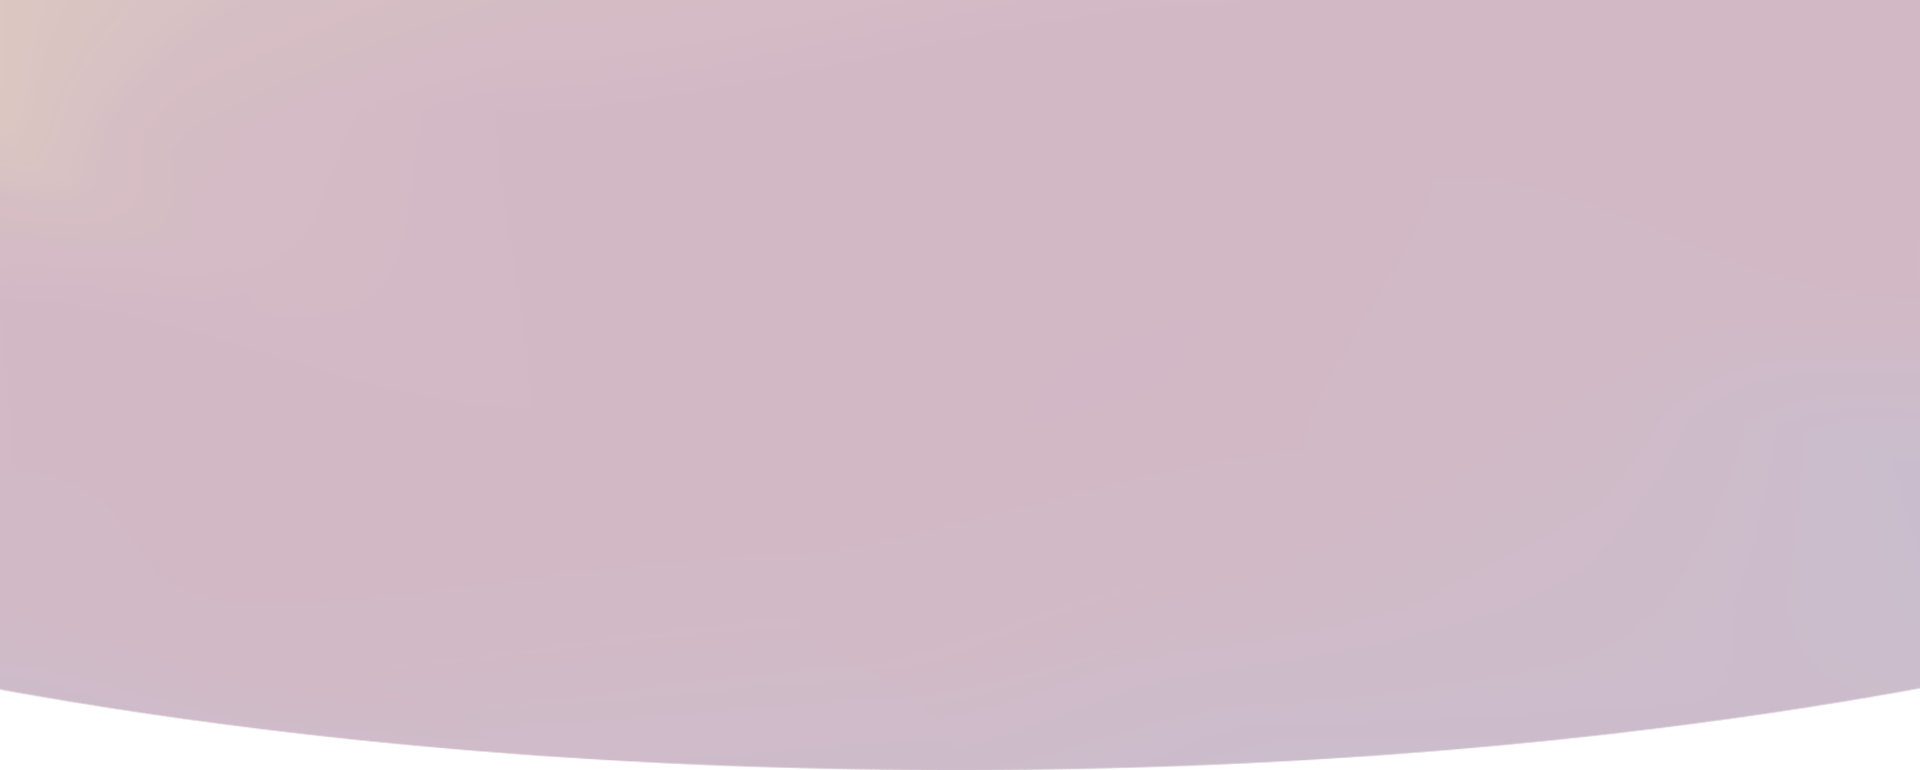
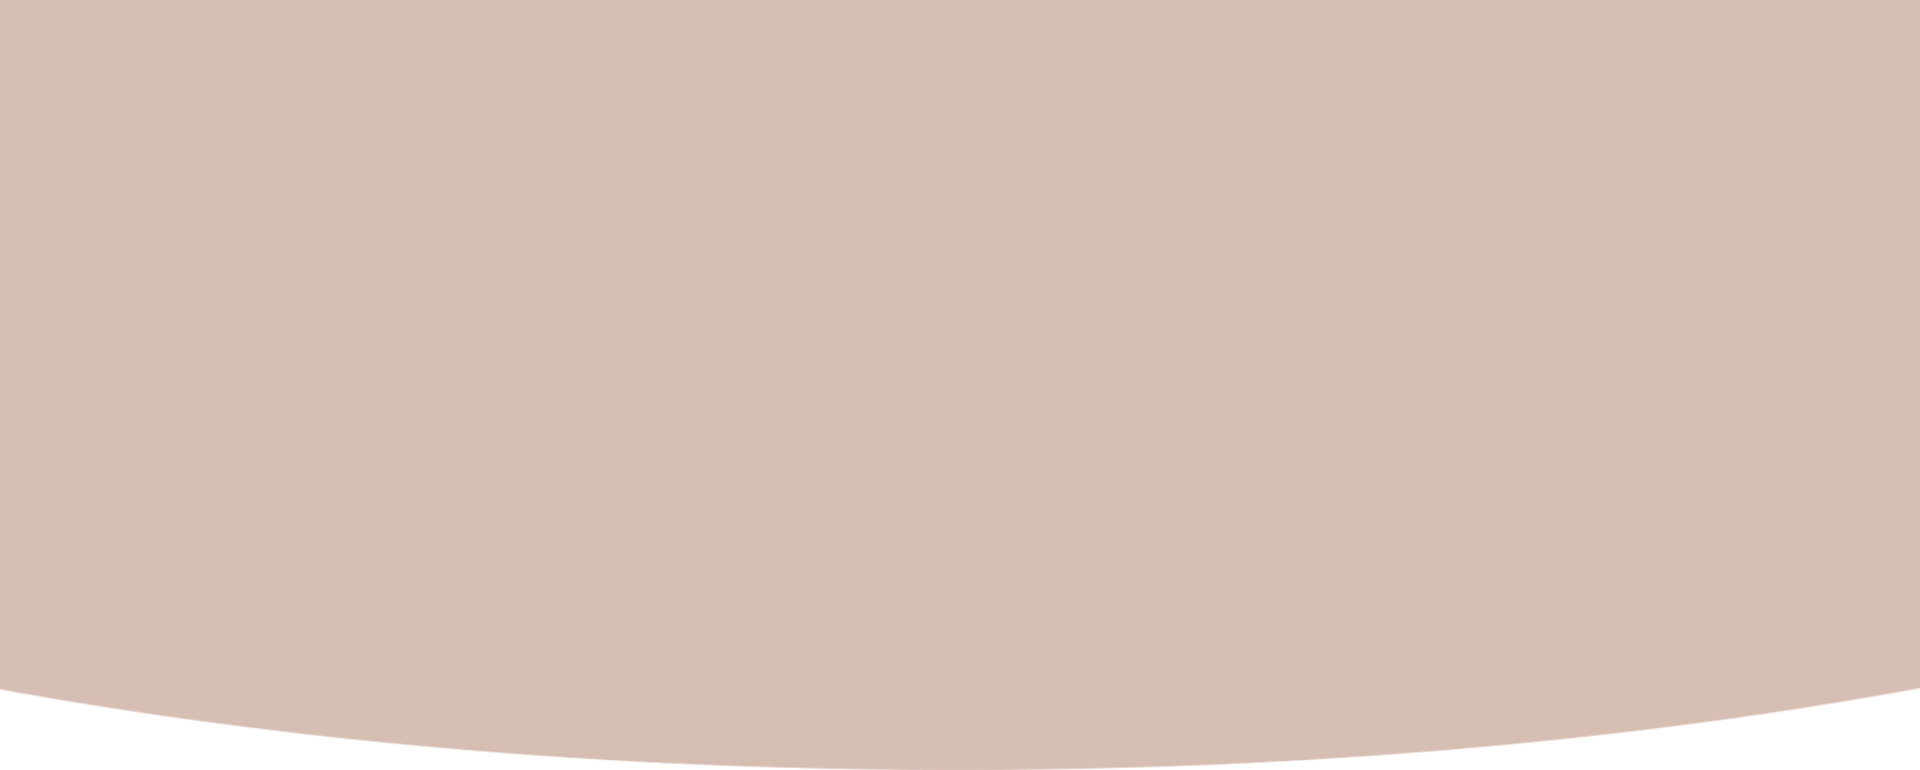
작업중

Changed region(s): [[0.9375, 0.561, 1.0, 0.8416]]

diff --git a/css/style.scss b/css/style.scss
@@ -110,7 +110,7 @@ $fullhd-min-width : 1920px;
       @include flex(center, center, column);
       & section:nth-child(1) {
         @include size(100vw, 85vh);
-        @include img(url(../images/test.png));
+        @include img(url(../images/bg.png));
         @include flex(center, center, row);
         position: relative;
         & > div:nth-child(1) {
@@ -149,11 +149,41 @@ $fullhd-min-width : 1920px;
         }
 
         & > div:nth-child(2) { //btn:참가하기
-          @include size(16vw, 10vh);
+          @include size(24vh, 8vh);
           border: 1px solid red;
           position: absolute;
           bottom: 20vh;
           right: 14vw;
+          @include flex(space-between, center, row);
+          & span {
+            color: $color-1;
+          }
+          & > div { //arrow
+            @include size(4vw, 4vw);
+            background-color: #C196C1;
+            border-radius: 50%;
+            position: relative;
+            & > div:nth-child(1) {
+              @include size(6vw, 1vw);
+              @include img(url(../images/icon/arrow.png));
+              position: absolute;
+              right: 2vw;
+              bottom: 2vw;
+            }
+          }
+
+          & > div::after {
+            content: '';
+            display: block;
+            @include size(4.8vw, 4.8vw);
+            border: 2px solid #C196C1;
+            box-sizing: border-box;
+            border-radius: 50%;
+            position: absolute;
+            top: 50%;
+            left: 50%;
+            transform: translate(-50%,-50%);
+          }
         }
       }
       & section:nth-child(2) {
@@ -211,7 +241,7 @@ $fullhd-min-width : 1920px;
       @include flex(center, center, column);
       & section:nth-child(1) { 
         @include size(100vw, 85vh);
-        @include img(url(../images/test2.png));
+        @include img(url(../images/bg-mo.png));
         @include flex(center, center, row);
         position: relative;
         & > div:nth-child(1) {

diff --git a/css/style.css b/css/style.css
@@ -93,7 +93,7 @@ li {
   #container main section:nth-child(1) {
     width: 100vw;
     height: 85vh;
-    background-image: url(../images/test.png);
+    background-image: url(../images/bg.png);
     background-position: 50% 50%;
     background-size: cover;
     background-repeat: no-repeat;
@@ -143,12 +143,50 @@ li {
     bottom: 5vw;
   }
   #container main section:nth-child(1) > div:nth-child(2) {
-    width: 16vw;
-    height: 10vh;
+    width: 24vh;
+    height: 8vh;
     border: 1px solid red;
     position: absolute;
     bottom: 20vh;
     right: 14vw;
+    display: flex;
+    justify-content: space-between;
+    align-items: center;
+    flex-direction: row;
+  }
+  #container main section:nth-child(1) > div:nth-child(2) span {
+    color: #fff;
+  }
+  #container main section:nth-child(1) > div:nth-child(2) > div {
+    width: 4vw;
+    height: 4vw;
+    background-color: #C196C1;
+    border-radius: 50%;
+    position: relative;
+  }
+  #container main section:nth-child(1) > div:nth-child(2) > div > div:nth-child(1) {
+    width: 6vw;
+    height: 1vw;
+    background-image: url(../images/icon/arrow.png);
+    background-position: 50% 50%;
+    background-size: cover;
+    background-repeat: no-repeat;
+    position: absolute;
+    right: 2vw;
+    bottom: 2vw;
+  }
+  #container main section:nth-child(1) > div:nth-child(2) > div::after {
+    content: "";
+    display: block;
+    width: 4.8vw;
+    height: 4.8vw;
+    border: 2px solid #C196C1;
+    box-sizing: border-box;
+    border-radius: 50%;
+    position: absolute;
+    top: 50%;
+    left: 50%;
+    transform: translate(-50%, -50%);
   }
   #container main section:nth-child(2) {
     width: 72vw;
@@ -224,7 +262,7 @@ li {
   #container main section:nth-child(1) {
     width: 100vw;
     height: 85vh;
-    background-image: url(../images/test2.png);
+    background-image: url(../images/bg-mo.png);
     background-position: 50% 50%;
     background-size: cover;
     background-repeat: no-repeat;

diff --git a/index.html b/index.html
@@ -52,7 +52,14 @@
           <div></div>
         </div>
         <!-- btn:참가하기 -->
-        <div></div>
+        <div>
+          <span>참가하기</span>
+          <div>
+            <div></div>
+            <div></div>
+          </div>
+          
+        </div>
       </section>
       <section>2</section>
       <section>3</section>
